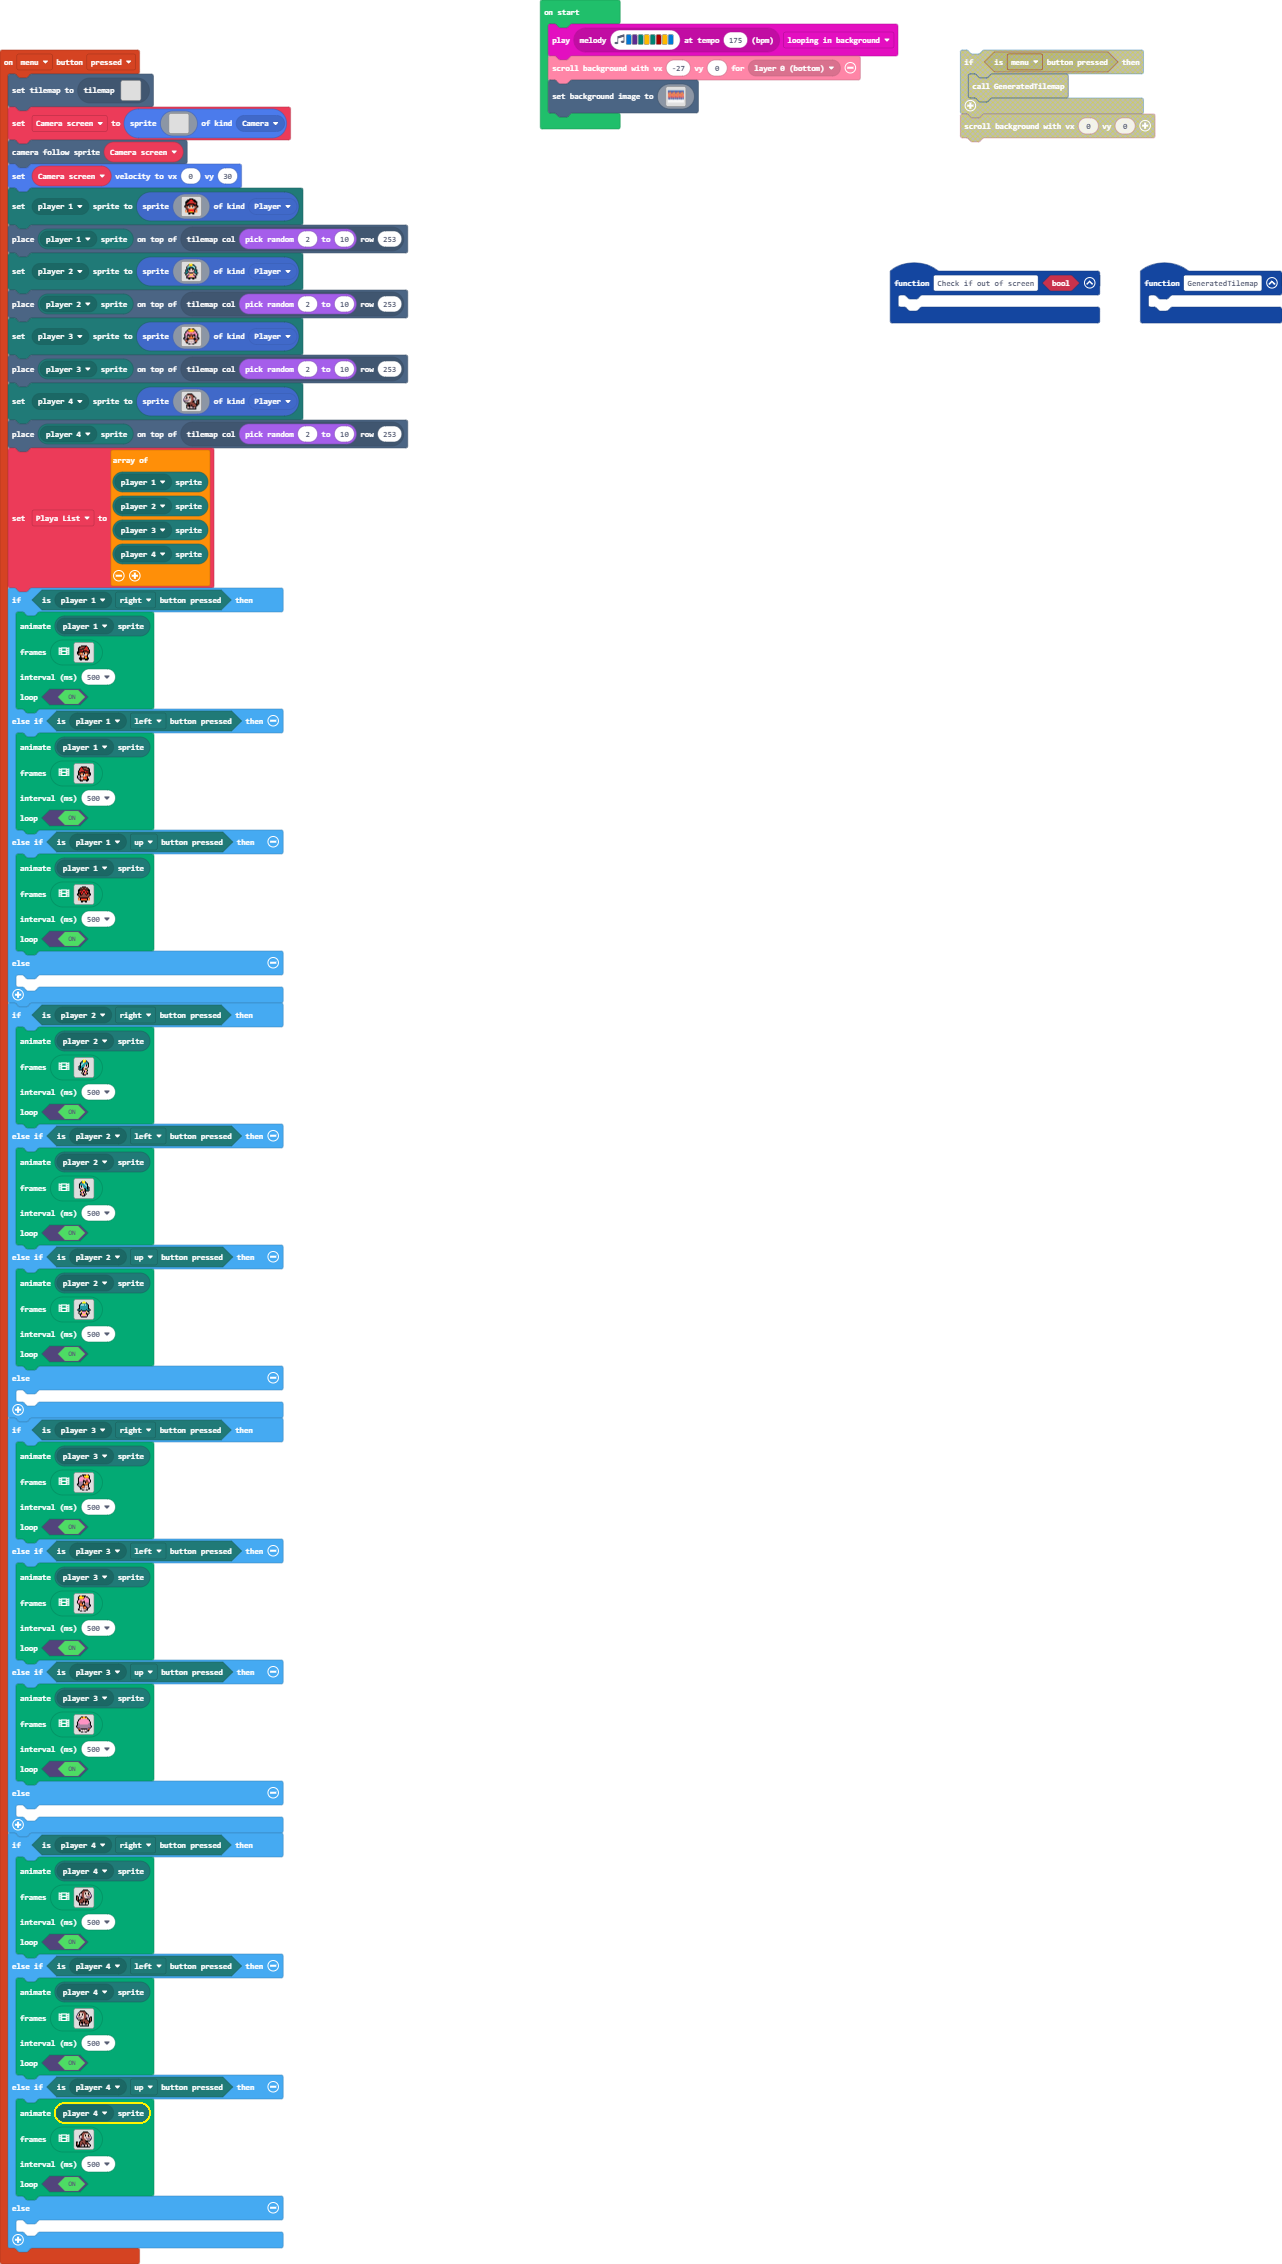
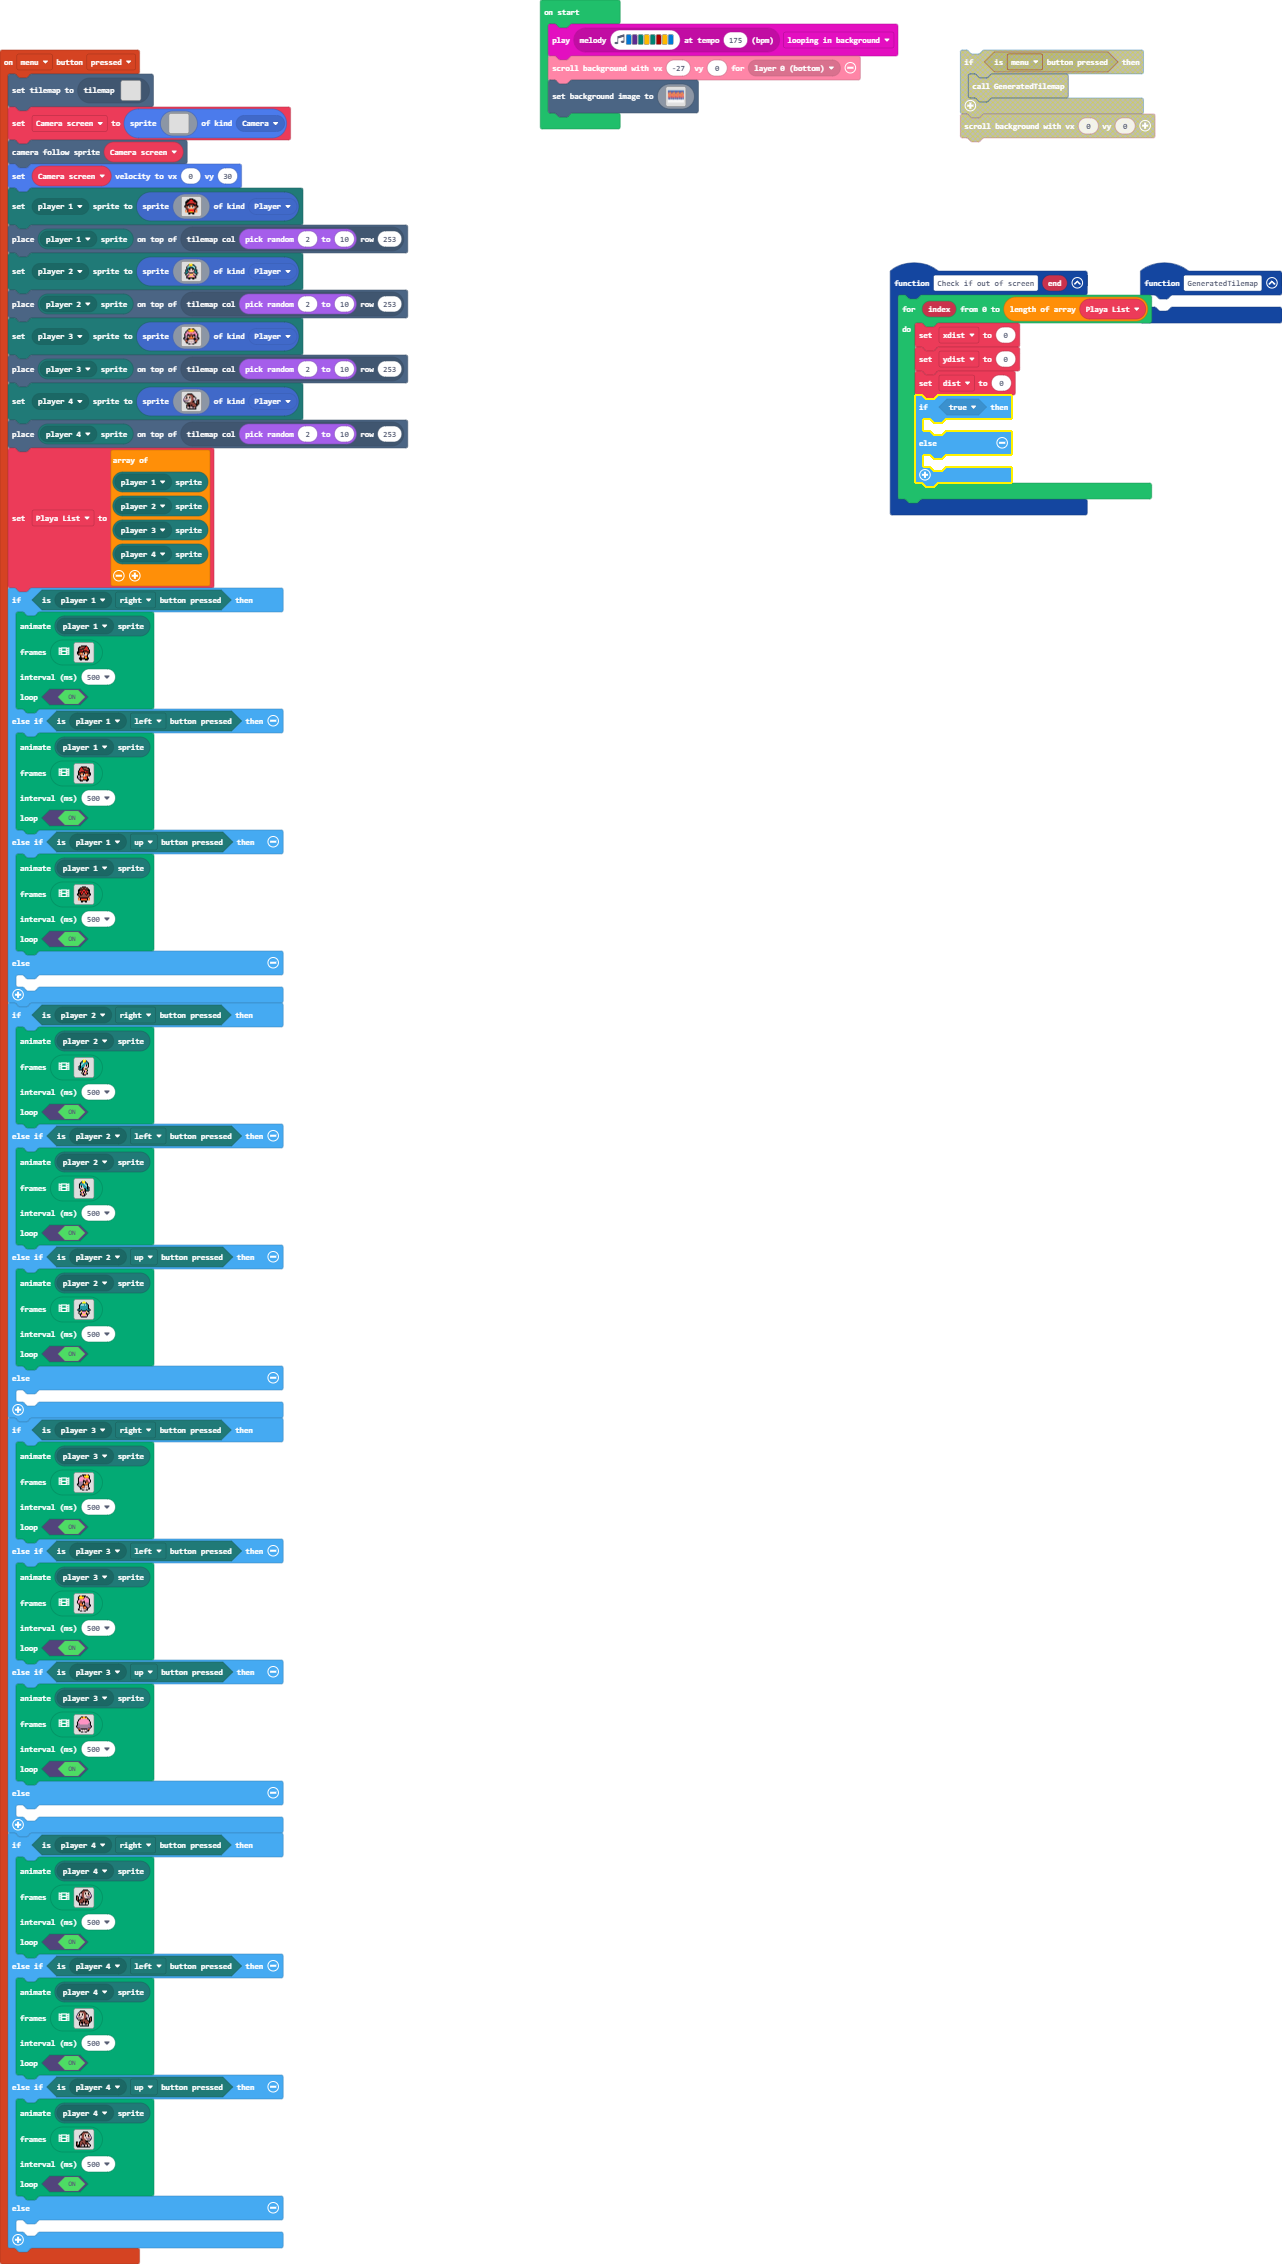
Update main.blocks, main.ts

Changed region(s): [[0.6864, 0.1237, 0.9048, 0.2473]]

diff --git a/main.ts b/main.ts
@@ -2,8 +2,17 @@ namespace SpriteKind {
     export const platformer = SpriteKind.create()
     export const Camera = SpriteKind.create()
 }
-function Check_if_out_of_screen (bool: boolean) {
-	
+function Check_if_out_of_screen (end: Sprite) {
+    for (let index = 0; index <= Playa_List.length; index++) {
+        xdist = 0
+        ydist = 0
+        dist = 0
+        if (true) {
+        	
+        } else {
+        	
+        }
+    }
 }
 controller.menu.onEvent(ControllerButtonEvent.Pressed, function () {
     tiles.setCurrentTilemap(tilemap`level1`)
@@ -974,8 +983,11 @@ controller.menu.onEvent(ControllerButtonEvent.Pressed, function () {
 function GeneratedTilemap () {
 	
 }
-let Playa_List: Sprite[] = []
 let Camera_screen: Sprite = null
+let dist = 0
+let ydist = 0
+let xdist = 0
+let Playa_List: Sprite[] = []
 music.play(music.stringPlayable("E D F A F C5 A E ", 175), music.PlaybackMode.LoopingInBackground)
 scroller.scrollBackgroundWithSpeed(-27, 0, scroller.BackgroundLayer.Layer0)
 scene.setBackgroundImage(img`
